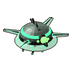
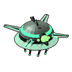
Overseer: only the base spins, slowly (one turn in 25 s); the bell keeps its green eye on the heading
Split the hover craft into two layers: hull/ is the base (skirt, vanes,
belly emitters, tendrils) as 16 spin frames over a quarter turn (the base is
now 4-fold symmetric), dome/ is the bell, crest, prow and eye on the 16
facings, drawn as the turret on the unit's heading. render_turntable takes
optional spin yaws; drawUnitSprite takes an optional hullRow.

Changed region(s): [[0.0278, 0.1944, 0.9722, 0.8056]]

diff --git a/gridlock/packages/client/src/render/sprites.ts b/gridlock/packages/client/src/render/sprites.ts
@@ -416,6 +416,7 @@ import {
   bindHiveArkSheets,
   bindApocalypseSheets,
   bindPlaneSheets,
+  bindOverseerSheets,
   bindFlutterSheets,
   FLUTTER_FRAMES,
   bindNebelwerferSheets,
@@ -1757,6 +1758,8 @@ bindFlutterSheets("gnat", GNAT_SPRITE.image);
 /**
  * Overseer: the Xenomorph hover craft, the Stuka's camera and fit. At the Fw 190's px per meter
  * it would be 41 (render_xeno_air.py check); drawn a little larger so the bell reads at play zoom.
+ * Two layers: the hull rows are the base spinning (a quarter turn over 16 rows, picked by
+ * saucerSpinRow, not by facing); the turret is the bell with the eye, on the heading.
  */
 export const OVERSEER_SPRITE: UnitSpriteDef = {
   image: new Image(),
@@ -1767,8 +1770,9 @@ export const OVERSEER_SPRITE: UnitSpriteDef = {
   drawSize: Math.round(48 * UNIT_VISUAL_SCALE),
   contactY: 0.8,
   facingSpace: "world",
+  turret: { image: new Image(), dirs: TANK_FACE_DIRS, frames: 1, frameSize: 128 },
 };
-bindPlaneSheets("overseer", OVERSEER_SPRITE.image);
+bindOverseerSheets(OVERSEER_SPRITE.image, OVERSEER_SPRITE.turret!.image);
 
 /**
  * BV 222 transport. Same camera and cell as the Stuka; its wingspan fills the cell,
@@ -3233,10 +3237,12 @@ export function drawUnitSprite(
     mountFacing?: number;
     mountDx?: number;
     mountDy?: number;
+    /** Hull row to draw instead of the facing's (the Overseer's spinning base). */
+    hullRow?: number;
   },
 ): boolean {
   if (!spriteReady(def)) return false;
-  const dir = sheetDir(def, isoDx, isoDy, opts.facing);
+  const dir = opts.hullRow ?? sheetDir(def, isoDx, isoDy, opts.facing);
   const frame =
     opts.frameIndex != null
       ? Math.min(def.frames - 1, Math.max(0, opts.frameIndex))

diff --git a/gridlock/packages/client/src/render/mapview.ts b/gridlock/packages/client/src/render/mapview.ts
@@ -463,7 +463,7 @@ import {
   tonguePose,
   type FlameParticle,
 } from "./flame-fx.js";
-import { AIR_DRAW_LAYER, aircraftShadowScale, airLiftPx, drawFallingBomb, hoverBobPx, inAir, lerpAirAlt, saucerSpin, wingBeatFrame } from "./aircraft.js";
+import { AIR_DRAW_LAYER, aircraftShadowScale, airLiftPx, drawFallingBomb, hoverBobPx, inAir, lerpAirAlt, saucerSpinRow, wingBeatFrame } from "./aircraft.js";
 import { layCrashTrail, layChargeTrail, CRASH_PUFF_CAP, CHARGE_PUFF_CAP } from "./crash-smoke.js";
 import { canopySway, drawCanopy, drawCrate, drawMine, troopCanopySpan } from "./airdrop-fx.js";
 import { barrageTracers, tracerLandsAt, tracerSpan, type BarrageTracer } from "./barrage-tracer.js";
@@ -8407,9 +8407,10 @@ export class MapView {
       drawTitanThrust(this.ctx, s, { x: s.x, y: s.y + lift }, size, 1, performance.now(), e.id);
     }
     const hex = this.ownerColor(e);
-    // The Overseer is a saucer: its whole hull spins all the time, whichever way it flies.
+    // The Overseer's base turns slowly all the time; the bell above it keeps its eye on the heading.
+    let hullRow: number | undefined;
     if (e.type === "overseer" && !e.wreck) {
-      p.facing += saucerSpin(e.id, performance.now());
+      hullRow = saucerSpinRow(e.id, performance.now());
       p.turretFacing = p.facing;
     }
     const dir = facingToIso(p.facing, this.ts());
@@ -8526,6 +8527,7 @@ export class MapView {
       mountFacing: e.ciws?.facing,
       mountDx: mountDir?.x,
       mountDy: mountDir?.y,
+      hullRow,
     });
     if (drawn && e.scout?.out && !e.wreck) {
       drawScoutHead(ctx, s.x + hullShiftX, s.y + hullShiftY, turretDir.x, turretDir.y, size, p.turretFacing);

diff --git a/gridlock/packages/client/src/render/aircraft.test.ts b/gridlock/packages/client/src/render/aircraft.test.ts
@@ -1,7 +1,7 @@
 import assert from "node:assert/strict";
 import { describe, it } from "node:test";
 import { AIR_CRUISE_ALT, isoLift, type EntityView } from "@gridlock/shared";
-import { AIR_DRAW_LAYER, HOVER_BOB_PX, SAUCER_SPIN_PER_SEC, aircraftShadowScale, airLiftPx, hoverBobPx, inAir, lerpAirAlt, saucerSpin, wingBeatFrame } from "./aircraft.js";
+import { AIR_DRAW_LAYER, HOVER_BOB_PX, SAUCER_SPIN_PER_SEC, SAUCER_SPIN_ROWS, aircraftShadowScale, airLiftPx, hoverBobPx, inAir, lerpAirAlt, saucerSpin, saucerSpinRow, wingBeatFrame } from "./aircraft.js";
 import { STANDING_DRAW_LAYER } from "./corpse-depth.js";
 
 function plane(alt: number): EntityView {
@@ -95,5 +95,17 @@ describe("Xenomorph flier animation", () => {
   it("spins the Overseer's hull all the way round", () => {
     const turn = saucerSpin(5, 1000 / SAUCER_SPIN_PER_SEC) - saucerSpin(5, 0);
     assert.ok(Math.abs(turn - Math.PI * 2) < 1e-9, "one turn in 1 / SAUCER_SPIN_PER_SEC seconds");
+  });
+
+  it("turns the Overseer's base slowly, through every row of its quarter-turn sheet", () => {
+    assert.ok(1 / SAUCER_SPIN_PER_SEC >= 20, "a full turn takes 20 s or more: a subtle drift");
+    const quarterMs = 1000 / SAUCER_SPIN_PER_SEC / 4;
+    const seen: number[] = [];
+    for (let t = 0; t < quarterMs; t += quarterMs / 64) {
+      const row = saucerSpinRow(0, t);
+      if (seen[seen.length - 1] !== row) seen.push(row);
+    }
+    assert.deepEqual(seen, Array.from({ length: SAUCER_SPIN_ROWS }, (_, i) => i), "one row at a time, in order");
+    assert.equal(saucerSpinRow(0, quarterMs * 4 + 1), saucerSpinRow(0, 1), "four quarters make a turn");
   });
 });

diff --git a/gridlock/packages/client/src/render/turntable-sheet.ts b/gridlock/packages/client/src/render/turntable-sheet.ts
@@ -966,6 +966,35 @@ const planeHullGlobs = {
 
 const planePrevious = new Map<keyof typeof planeHullGlobs, ComposedTurntable>();
 
+/** The Overseer's bell and eye on the 16 facings, over its slowly spinning base (the hull glob). */
+const overseerDomeGlob = import.meta.glob("../assets/units/overseer/dome/*.png", { eager: true, import: "default" }) as Record<string, string>;
+
+/** The Overseer: base (16 spin frames) and dome (16 facings) fitted in one box, the Stuka's fit. */
+export function bindOverseerSheets(baseImage: HTMLImageElement, domeImage: HTMLImageElement): void {
+  let baseUrls: string[];
+  let domeUrls: string[];
+  try {
+    baseUrls = pickTurntableUrls(planeHullGlobs.overseer);
+    domeUrls = pickTurntableUrls(overseerDomeGlob);
+  } catch (err) {
+    console.error("overseer turntable", err);
+    return;
+  }
+  void Promise.all([Promise.all(baseUrls.map(loadImage)), Promise.all(domeUrls.map(loadImage))])
+    .then(([baseImgs, domeImgs]) => composeAligned([baseImgs, domeImgs], STUKA_OPTS))
+    .then((next) => {
+      revoke(planePrevious.get("overseer") ?? null);
+      planePrevious.set("overseer", next);
+      baseImage.src = next.sheetUrls[0] ?? "";
+      domeImage.src = next.sheetUrls[1] ?? "";
+      // The static overseer-cameo.png stands in the sidebar.
+      URL.revokeObjectURL(next.cameoUrl);
+    })
+    .catch((err) => {
+      console.error("overseer turntable", err);
+    });
+}
+
 /** The wing strokes of the Xenomorph insects (render_xeno_air.py): the hull is the mid stroke. */
 const wingStrokeGlobs = {
   wasp: {

diff --git a/gridlock/packages/client/src/render/aircraft.ts b/gridlock/packages/client/src/render/aircraft.ts
@@ -40,12 +40,21 @@ export function wingBeatFrame(id: number, fps: number, frames: number, nowMs: nu
   return Math.floor((nowMs / 1000) * fps + id * 1.37) % frames;
 }
 
-/** Turns a second of the Overseer's spinning hull. */
-export const SAUCER_SPIN_PER_SEC = 0.5;
+/** Turns a second of the Overseer's base: a slow, subtle drift (one turn in 25 s). */
+export const SAUCER_SPIN_PER_SEC = 0.04;
 
-/** Radians the Overseer's hull has spun at this moment: it turns all the time, the way it flies or not. */
+/** Radians the Overseer's base has spun at this moment: it turns all the time, the way it flies or not. */
 export function saucerSpin(id: number, nowMs: number): number {
   return ((nowMs / 1000) * SAUCER_SPIN_PER_SEC + id * 0.19) * Math.PI * 2;
+}
+
+/** The base looks the same every quarter turn, so its 16 sheet rows span 90 degrees of spin. */
+export const SAUCER_SPIN_ROWS = 16;
+
+/** Hull row of the Overseer's spinning base now (render_xeno_air.py: frame k is k/16 of a quarter turn). */
+export function saucerSpinRow(id: number, nowMs: number): number {
+  const quarters = (saucerSpin(id, nowMs) / (Math.PI / 2)) % 1;
+  return Math.floor(quarters * SAUCER_SPIN_ROWS) % SAUCER_SPIN_ROWS;
 }
 
 /** Screen pixels a plane lifts off its ground point. */

diff --git a/tools/sprites/render_xeno_air.py b/tools/sprites/render_xeno_air.py
@@ -18,13 +18,15 @@ membrane, translucent, with chitin spars and glowing veins.
            a glow seam down the join, a plated pronotum and a horned head,
            long veined wings from under the elytra, and a glowing plasma bomb
            pod slung in chitin claws under the belly.
-  overseer hover craft: a floating hive eye, nothing like a plane. A ribbed
-           chitin bell with glow seams and the gray team band, a skirt of
-           glowing membrane round its rim, four humming membrane vanes out to
-           the sides, a chitin prow with one great green eye on the nose (the
-           heading), a cluster of emitters round a hot core under the belly,
-           and six tendrils trailing down and back: their tips are the lowest
-           point (the plane's wheels).
+  overseer hover craft: a floating hive eye, nothing like a plane. Two layers:
+           the dome (dome/, on the 16 facings) is a ribbed chitin bell with
+           glow seams, the gray team band, a crest, and a chitin prow with one
+           great green eye on the nose (the heading). The base (hull/) turns
+           slowly under it: a skirt of glowing membrane round the rim, four
+           humming membrane vanes on the diagonals, a cluster of emitters round
+           a hot core under the belly, and eight tendrils hanging down, their
+           tips the lowest point (the plane's wheels). The base repeats every
+           quarter turn, so its 16 frames are a spin over 90 deg, not facings.
   gnat     spy drone: a tiny fat fly, one big glowing sensor eye over the face,
            two sensor whiskers, short broad wings, no weapon. Kept at true
            scale beside the Wasp, so it draws small (drawSize 41).
@@ -71,7 +73,7 @@ from render_procedural import Mesh, render_turntable
 
 import xeno_walker as bw
 from xeno_walker import dome, ellipsoid, knob, shell, tube, tube_x
-from render_xeno_naval import UNITS, cameo72, check
+from render_xeno_naval import PREVIEW, UNITS, cameo72, check
 
 # Wing membrane: pale green, see-through; its own edge gets the outline (alpha > 0.5).
 rp.MAT.update(
@@ -220,13 +222,33 @@ def build_scourge(fore: float = 0.0, hind: float = 0.0) -> Mesh:
     return m
 
 
-def build_overseer() -> Mesh:
-    """Hover craft in meters. +x nose, +y left, +z up. Tendril tips at z = 0."""
-    m = Mesh()
-    zb = 1.9  # rim of the bell
+OVERSEER_ZB = 1.9  # rim of the bell
+# The base turns slowly under the bell; it repeats every quarter turn, so its 16 frames span 90 deg.
+OVERSEER_SPIN_PERIOD = math.pi / 2
+
+
+def overseer_dome(m: Mesh) -> Mesh:
+    """The part that faces the heading: the bell, crest, prow and the great eye on the nose. +x nose."""
+    zb = OVERSEER_ZB
     seg = 20
     # The bell: ribbed chitin over alloy, glow seams, the team band near the crown.
     dome(m, 0.0, 0.0, zb, 1.9, 1.9, 1.35, bw.banded_dome_mat(seg, (3,), team_seg=None, team_rings=(5,)), rings=7, seg=seg)
+    # Prow and the great eye on the nose: the heading.
+    tube(m, (1.4, 0.0, zb + 0.55), (2.75, 0.0, zb + 0.25), 0.55, 0.12, "chitin", n=9)
+    ellipsoid(m, (2.05, 0.0, zb + 0.62), (0.42, 0.44, 0.4), "eye", rings=6, seg=12)
+    for s in (-1, 1):
+        knob(m, (1.75, s * 0.62, zb + 0.48), 0.15, "eye")
+    # Crest down the crown, front to back.
+    tube(m, (0.9, 0.0, zb + 1.3), (-1.3, 0.0, zb + 1.55), 0.16, 0.05, "claw", n=5)
+    for x in (0.4, -0.4):
+        tube(m, (x, 0.0, zb + 1.4), (x - 0.4, 0.0, zb + 1.9), 0.11, 0.02, "claw", n=5)
+    return m
+
+
+def overseer_base(m: Mesh) -> Mesh:
+    """The part that spins: skirt, vanes, belly emitters and tendrils. Same every quarter turn. Tendril tips at z = 0."""
+    zb = OVERSEER_ZB
+    seg = 24
     # Membrane skirt round the rim, flaring down and out.
     top = [np.array([1.9 * math.cos(2 * math.pi * s / seg), 1.9 * math.sin(2 * math.pi * s / seg), zb + 0.02]) for s in range(seg)]
     low = [np.array([2.35 * math.cos(2 * math.pi * s / seg), 2.35 * math.sin(2 * math.pi * s / seg), zb - 0.45]) for s in range(seg)]
@@ -234,8 +256,9 @@ def build_overseer() -> Mesh:
     for s in range(0, seg, 2):
         a = 2 * math.pi * s / seg
         tube(m, (1.9 * math.cos(a), 1.9 * math.sin(a), zb + 0.02), (2.33 * math.cos(a), 2.33 * math.sin(a), zb - 0.43), 0.05, 0.03, "vein", n=4)
-    # Four humming vanes out to the sides, a little swept: chitin spar, membrane blade, glowing vein.
-    for ang in (math.radians(55), math.radians(125), math.radians(-55), math.radians(-125)):
+    # Four humming vanes on the diagonals: chitin spar, membrane blade, glowing vein.
+    for k in range(4):
+        ang = math.pi / 4 + k * math.pi / 2
         ux, uy = math.cos(ang), math.sin(ang)
         r0, r1 = 1.75, 3.6
         z0, z1 = zb + 0.35, zb + 0.55
@@ -248,32 +271,48 @@ def build_overseer() -> Mesh:
         tube(m, (ux * r0, uy * r0, z0 + 0.03), (ux * r1, uy * r1, z1 + 0.03), 0.09, 0.04, "chitin", n=5)
         tube(m, (ux * (r0 + 0.3) + px * 0.2, uy * (r0 + 0.3) + py * 0.2, z0 + 0.05), (ux * (r1 - 0.2), uy * (r1 - 0.2), z1 + 0.05), 0.04, 0.03, "vein", n=4)
         knob(m, (ux * r0, uy * r0, z0), 0.2, "seam")
-    # Prow and the great eye on the nose: the heading.
-    tube(m, (1.4, 0.0, zb + 0.55), (2.75, 0.0, zb + 0.25), 0.55, 0.12, "chitin", n=9)
-    ellipsoid(m, (2.05, 0.0, zb + 0.62), (0.42, 0.44, 0.4), "eye", rings=6, seg=12)
-    for s in (-1, 1):
-        knob(m, (1.75, s * 0.62, zb + 0.48), 0.15, "eye")
-    # Crest down the crown, front to back.
-    tube(m, (0.9, 0.0, zb + 1.3), (-1.3, 0.0, zb + 1.55), 0.16, 0.05, "claw", n=5)
-    for x in (0.4, -0.4):
-        tube(m, (x, 0.0, zb + 1.4), (x - 0.4, 0.0, zb + 1.9), 0.11, 0.02, "claw", n=5)
     # Emitter cluster round a hot core under the belly.
     ellipsoid(m, (0.0, 0.0, zb - 0.15), (1.5, 1.5, 0.35), "chitin", rings=6, seg=16)
     knob(m, (0.0, 0.0, zb - 0.55), 0.5, "core")
-    for k in range(6):
-        a = 2 * math.pi * (k + 0.5) / 6
+    for k in range(8):
+        a = 2 * math.pi * (k + 0.5) / 8
         ex, ey = 0.85 * math.cos(a), 0.85 * math.sin(a)
         tube(m, (ex, ey, zb - 0.25), (ex * 0.8, ey * 0.8, zb - 0.95), 0.13, 0.09, "barrel", n=6)
         knob(m, (ex * 0.8, ey * 0.8, zb - 0.98), 0.1, "seam")
-    # Six tendrils trailing down and back: the lowest point.
-    for k in range(6):
-        a = 2 * math.pi * k / 6 + math.pi / 6
+    # Eight tendrils hanging down, swept a little against the turn: the lowest point.
+    for k in range(8):
+        a = 2 * math.pi * k / 8
+        sweep = math.radians(-18)
         rx, ry = 1.45 * math.cos(a), 1.45 * math.sin(a)
-        mid = (rx * 0.95 - 0.35, ry * 0.95, zb - 1.0)
-        tube(m, (rx, ry, zb - 0.3), mid, 0.11, 0.08, "limb", n=5)
-        tube(m, mid, (rx * 0.85 - 0.75, ry * 0.85, 0.05), 0.08, 0.03, "limb", n=5)
-        knob(m, (rx * 0.85 - 0.75, ry * 0.85, 0.08), 0.07, "vein")
+        mx, my = 1.35 * math.cos(a + sweep * 0.5), 1.35 * math.sin(a + sweep * 0.5)
+        tx, ty = 1.2 * math.cos(a + sweep), 1.2 * math.sin(a + sweep)
+        mid = (mx, my, zb - 1.0)
+        tube(m, (rx, ry, zb - 0.3), mid, 0.1, 0.07, "limb", n=5)
+        tube(m, mid, (tx, ty, 0.05), 0.07, 0.03, "limb", n=5)
+        knob(m, (tx, ty, 0.08), 0.07, "vein")
     return m
+
+
+def build_overseer() -> Mesh:
+    """Hover craft in meters, both parts at rest. +x nose, +y left, +z up. Tendril tips at z = 0."""
+    return overseer_dome(overseer_base(Mesh()))
+
+
+def render_overseer(ss: int, check_only: bool) -> None:
+    """Two layers, composed in one box at runtime: hull/ = the base spinning (16 frames over a
+    quarter turn, not facings), dome/ = the bell and eye on the 16 facings."""
+    z_mid = UNITS_SPEC["overseer"][1]
+    base_dir, dome_dir = UNITS / "overseer" / "hull", UNITS / "overseer" / "dome"
+    if not check_only:
+        spin = [OVERSEER_SPIN_PERIOD * k / 16 for k in range(16)]
+        render_turntable(overseer_base(Mesh()), base_dir, "overseer_hull", "overseer-hull.json", SCALE_FRAC, z_mid, cell=256, ss=ss, yaws=spin)
+        render_turntable(overseer_dome(Mesh()), dome_dir, "overseer_dome", "overseer-dome.json", SCALE_FRAC, z_mid, cell=256, ss=ss)
+        # The cameo shows the whole craft, both parts at rest.
+        whole = PREVIEW / "overseer-whole"
+        render_turntable(build_overseer(), whole, "overseer_whole", "overseer-whole.json", SCALE_FRAC, z_mid, cell=256, ss=ss)
+        cameo72(whole, UNITS / "overseer-cameo.png")
+    check("overseer", base_dir, 0.8, 2, "fw190", 56.0, "STUKA_OPTS")
+    check("overseer-dome", dome_dir, 0.8, 2, "fw190", 56.0, "STUKA_OPTS")
 
 
 def build_gnat(fore: float = 0.0, hind: float = 0.0) -> Mesh:
@@ -341,6 +380,9 @@ def strokes_of(unit: str) -> list[str]:
 
 
 def render(unit: str, ss: int = 4, check_only: bool = False, only: str | None = None) -> None:
+    if unit == "overseer":
+        render_overseer(ss, check_only)
+        return
     build, z_mid, ref, ref_draw = UNITS_SPEC[unit]
     for stroke in strokes_of(unit):
         if only and stroke != only:

diff --git a/tools/sprites/render_procedural.py b/tools/sprites/render_procedural.py
@@ -1013,11 +1013,13 @@ def render_turntable(
     outline_px: int = 1,
     clip_z: float | None = None,
     underlay: Mesh | None = None,
+    yaws: list[float] | None = None,
 ) -> None:
     """16 unique faces of one mesh, 0001 = nose screen-south, clockwise. `scale_frac` is px per model unit / cell px.
 
     `clip_z` cuts the mesh on a model-height plane. `underlay` (a pool) is drawn
     first, without an outline, and the outlined mesh is painted over it.
+    `yaws` (16 ground yaws, radians) replaces the facings: frames of a spin, not headings.
     """
     out.mkdir(parents=True, exist_ok=True)
     size = cell * ss
@@ -1027,7 +1029,7 @@ def render_turntable(
     names = ["S", "SSW", "SW", "WSW", "W", "WNW", "NW", "NNW", "N", "NNE", "NE", "ENE", "E", "ESE", "SE", "SSE"]
     for k in range(16):
         phi = math.pi / 2 + k * math.pi / 8  # screen angle: row 0 down, then clockwise on screen
-        yaw = screen_to_ground_yaw(phi)
+        yaw = yaws[k] if yaws is not None else screen_to_ground_yaw(phi)
         cy, sy_ = math.cos(yaw), math.sin(yaw)
 
         def to_world(p: np.ndarray) -> np.ndarray:

diff --git a/tools/sprites/render_wrecks.py b/tools/sprites/render_wrecks.py
@@ -422,7 +422,7 @@ SPECS = [
     Spec("lurker", 128, 0.74, "sunk", src="lurker", layers=["hull"], padding=2, holes=3, bites=2, soot=0.45, debris=6, sink=3.5, list_deg=4),
     Spec("wasp", 128, 0.8, "plane", src="wasp", layers=["hull"], padding=2, holes=3, bites=2, debris=12),
     Spec("scourge", 128, 0.8, "plane", src="scourge", layers=["hull"], padding=2, holes=3, bites=2, debris=14),
-    Spec("overseer", 128, 0.8, "plane", src="overseer", layers=["hull"], padding=2, holes=3, bites=2, debris=10),
+    Spec("overseer", 128, 0.8, "plane", src="overseer", layers=["hull", "dome"], padding=2, holes=3, bites=2, debris=10),
     Spec("gnat", 128, 0.8, "plane", src="gnat", layers=["hull"], padding=2, holes=1, bites=1, debris=5),
 ]
 
